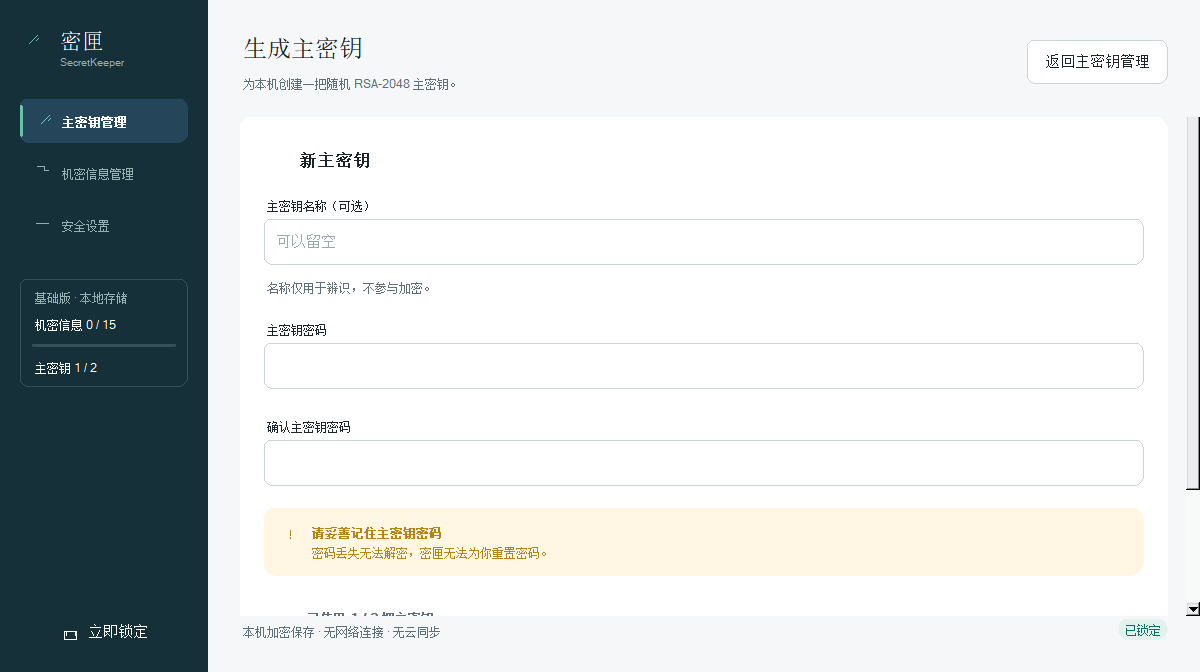
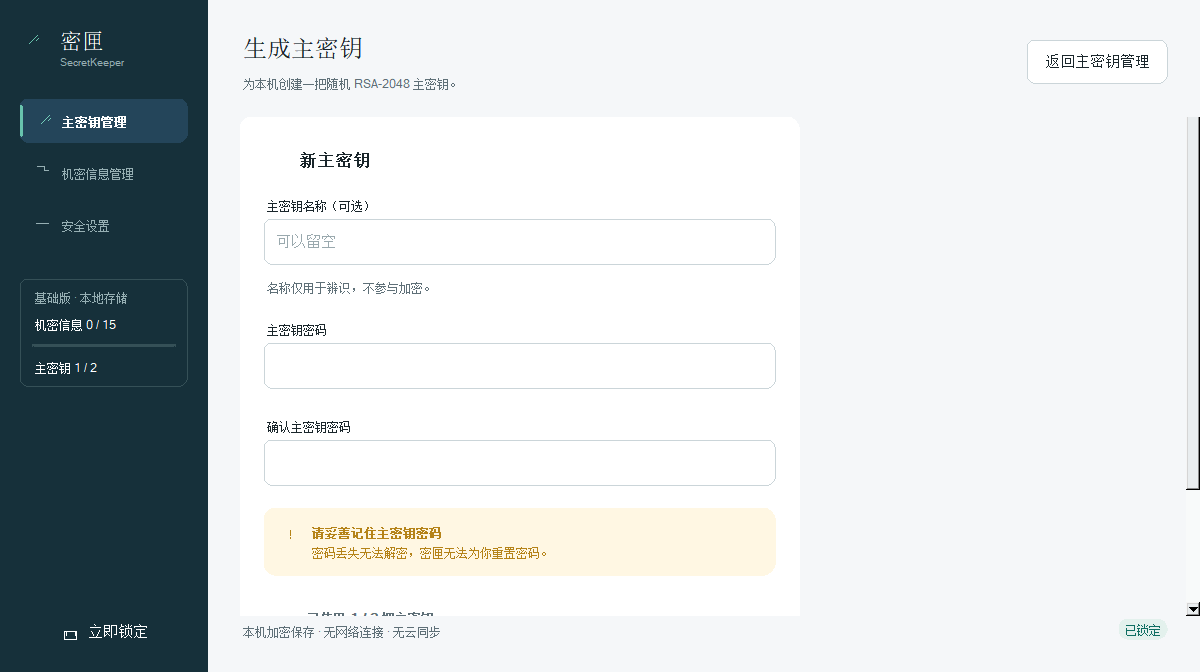
feat(ui): v2.1 表单页窄列化——Bitwarden 式居左窄表单
五个表单页（03/04/05/07/08）的卡片 928→560、输入宽 880→512、
页脚说明盒同步收窄：输入不再通栏铺满（v1 全宽 880 在 1200 窗口下
空旷失衡），右缘留白呼吸。卡片右缘 800 < 视口 978，无水平溢出。

验证：Release 编译 0 错误，ctest 5/5，03/07 截图确认窄列布局，
docs/ui/screenshots-v2/ 九页截图同步更新。

Changed region(s): [[0.6475, 0.75, 0.6783, 0.875]]

diff --git a/src/app/pages.cpp b/src/app/pages.cpp
@@ -915,9 +915,9 @@ CreateKeyPage::CreateKeyPage(MainWindow* host)
   layout_header("返回主密钥管理");
 
   // 03 号画板：整块内容在一张白卡上（240,117,928,639 r12）。
-  new widgets::Card(theme::kSidebarWidth + theme::kContentPad, 117, 928, 639);
+  new widgets::Card(theme::kSidebarWidth + theme::kContentPad, 117, 560, 639);
   const int ix = 264;
-  const int iw = 880;
+  const int iw = 512;
 
   auto* section = new Fl_Box(296, 149, 400, 24, "新主密钥");
   section->align(FL_ALIGN_LEFT | FL_ALIGN_INSIDE);
@@ -1059,9 +1059,9 @@ ImportKeyPage::ImportKeyPage(MainWindow* host)
   layout_header(nullptr);
 
   // 04 号画板：白卡（240,117,928,460 r12），无头部返回钮。
-  new widgets::Card(theme::kSidebarWidth + theme::kContentPad, 117, 928, 460);
+  new widgets::Card(theme::kSidebarWidth + theme::kContentPad, 117, 560, 460);
   const int ix = 264;
-  const int iw = 880;
+  const int iw = 512;
 
   // 文件块（04 号画板 #F3F5F6 141,96 r12）。
   widgets::Card* fcard = new widgets::Card(ix, 141, iw, 96, theme::kContentBg);
@@ -1202,9 +1202,9 @@ ExportKeyPage::ExportKeyPage(MainWindow* host)
   set_footer_reserve(0);  // 05 号画板无页脚行，body 视口延伸到窗口底
 
   // 05 号画板：白卡（240,117,928,829 r12），页面客户区高 905。
-  new widgets::Card(theme::kSidebarWidth + theme::kContentPad, 117, 928, 829);
+  new widgets::Card(theme::kSidebarWidth + theme::kContentPad, 117, 560, 829);
   const int ix = 264;
-  const int iw = 880;
+  const int iw = 512;
 
   // 密钥摘要块（05 号画板 #F8FAFA 141,94 r8）。
   widgets::Card* scard = new widgets::Card(ix, 141, iw, 94, theme::kSubtleBg);
@@ -1552,7 +1552,7 @@ SecretsPage::SecretsPage(MainWindow* host)
   missing_label_->labelcolor(theme::kTextMuted);
 
   // 页脚说明（06 号画板 board 804 → 客户区 760）。
-  Fl_Box* foot = new Fl_Box(theme::kSidebarWidth + theme::kContentPad, 760, 700, 19,
+  Fl_Box* foot = new Fl_Box(theme::kSidebarWidth + theme::kContentPad, 760, 512, 19,
                             "ID 后的黄色 ? 表示主密钥缺失；名称为空不代表缺失。");
   foot->align(FL_ALIGN_LEFT | FL_ALIGN_INSIDE);
   foot->labelsize(theme::kFontSmall);
@@ -1846,7 +1846,7 @@ AddSecretPage::AddSecretPage(MainWindow* host)
   // 07 号画板：白卡（240,117,928,576 r12）。
   new widgets::Card(theme::kSidebarWidth + theme::kContentPad, 117, 928, 576);
   const int ix = 264;
-  const int iw = 880;
+  const int iw = 512;
 
   auto* key_label = new Fl_Box(ix, 147, 400, 17, "用于加密的主密钥");
   key_label->align(FL_ALIGN_LEFT | FL_ALIGN_INSIDE);
@@ -2003,7 +2003,7 @@ ImportSecretPage::ImportSecretPage(MainWindow* host)
   // 08 号画板：白卡（240,117,928,623 r12）。
   new widgets::Card(theme::kSidebarWidth + theme::kContentPad, 117, 928, 623);
   const int ix = 264;
-  const int iw = 880;
+  const int iw = 512;
 
   // 三段步骤条（08 号画板 141,21）。
   step1_ = new widgets::Pill(ix, 141, 71, 21, "文件已选择", theme::kAccent,
@@ -2185,7 +2185,7 @@ SettingsPage::SettingsPage(MainWindow* host)
                theme::kSettingsH) {
   // 09 号画板：白卡（240,117,928,453 r12）。
   const int ix = theme::kSidebarWidth + theme::kContentPad;
-  const int iw = 880;
+  const int iw = 512;
   new widgets::Card(ix, 117, iw, 453);
 
   auto* title = new Fl_Box(ix + 24, 149, 300, 24, "锁定与隐私");
